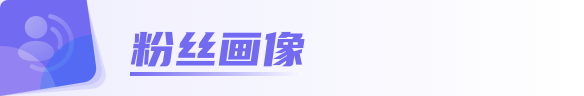
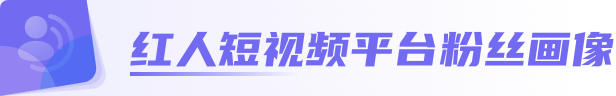
粉丝画像调整

diff --git a/src/views/star/FansData.vue b/src/views/star/FansData.vue
@@ -1,7 +1,7 @@
 <template>
   <div :class="c.dataBlock">
     <template v-if="hasOverview">
-      <h2 id="overview" data-anchor="数据概览" :class="[c.imgTitle, s.title1]">粉丝数据概览</h2>
+      <h2 id="overview" data-anchor="粉丝数据概览" :class="[c.imgTitle, s.title1]">红人短视频平台粉丝数据概览</h2>
       <div :class="c.rtTip">
         <a-tooltip placement="bottom">
           <template slot="title">您可以看到他的粉丝性别比例，年龄分层，活跃时间段以及粉丝占比最高的地区</template>
@@ -24,7 +24,7 @@
         </li>
       </ul>
     </template>
-    <h2 id="portrait" data-anchor="粉丝画像" :class="[c.imgTitle, s.title2]">粉丝画像</h2>
+    <h2 id="portrait" data-anchor="平台粉丝画像" :class="[c.imgTitle, s.title2]">红人短视频平台粉丝画像</h2>
     <div :class="s.block1">
       <div>
         <h3 :class="c.h3">
@@ -114,11 +114,46 @@
         </DataBlock>
       </div>
     </div>
-    <div v-if="portraits1.length" :class="s.t1">购买红人商品的粉丝画像（京东）</div>
+    <h2 v-if="portraits1.length" id="portrait1" data-anchor="购买粉丝画像" :class="[c.imgTitle, s.title3]">购买过红人所推荐商品的粉丝画像</h2>
     <DataBlock v-show="portraits1.length" :class="s.block1" :req="portraits1Req" :handler="portraits1Handler" :showEmpty="false" :showErr="false">
       <template v-slot="{ data }">
         <div v-for="{ name, chart } in data" :key="name">
-          <h3 :class="c.h3">{{ name }}</h3>
+          <h3 :class="c.h3">
+            {{ name }}
+            <a-tooltip v-if="name === '购买力'" placement="bottom">
+              <template slot="title">
+                <div>购买力客户特征：</div>
+                <ul>
+                  <li>1. 土豪：经常买奢侈品和高端商品</li>
+                  <li>2. 高级白领：生活品质较高，会偶尔买一些高端商品</li>
+                  <li>3. 小白领：生活品质还不错，但是闲钱不多，喜欢买一些中端商品</li>
+                  <li>4. 蓝领：生活品质一般，更倾向于购买中低端商品</li>
+                  <li>5. 收入很少：量入为出，喜欢买经济实惠的东西，从不买高端商品</li>
+                </ul>
+              </template>
+              <a-icon type="question-circle" :class="s.tipIcon" />
+            </a-tooltip>
+            <a-tooltip v-else-if="name === '促销敏感度类型'" placement="bottom">
+              <template slot="title">
+                <div>第一部分：</div>
+                <ul>
+                  <li>L1-近一年有复购用户</li>
+                  <li>L2-近一年无复购用户</li>
+                  <li>L3-一年前有复购用户</li>
+                  <li>L4-一年前无复购用户</li>
+                </ul>
+                <div style="margin-top:5px">第二部分：</div>
+                <ul>
+                  <li>1-对价格不敏感</li>
+                  <li>2-对价格轻度敏感</li>
+                  <li>3-对价格中度敏感</li>
+                  <li>4-对价格高度敏感</li>
+                  <li>5-对价格极度敏感</li>
+                </ul>
+              </template>
+              <a-icon type="question-circle" :class="s.tipIcon" />
+            </a-tooltip>
+          </h3>
           <LazyBlock :class="s.b1" :data="chart">
             <Chart :class="s.chart1" :chartData="chart"></Chart>
           </LazyBlock>
@@ -322,21 +357,29 @@ export default {
 
 <style lang="less" module="s">
 .title1 {
-  width: 292px;
+  width: 348px;
   height: 48px;
   background-image: url(~@/assets/fans-title1.png);
 }
 .title2 {
-  width: 292px;
+  width: 308px;
   height: 48px;
   background-image: url(~@/assets/fans-title2.png);
+}
+.title3 {
+  width: 397px;
+  height: 48px;
+  background-image: url(~@/assets/fans-title3.png);
 }
 @media only screen and (-webkit-min-device-pixel-ratio: 2), only screen and (min-device-pixel-ratio: 2) {
   .title1 {
     background-image: url(~@/assets/fans-title1@2x.png);
   }
   .title2 {
-    background-image: url(~@/assets/fans-title1@2x.png);
+    background-image: url(~@/assets/fans-title2@2x.png);
+  }
+  .title3 {
+    background-image: url(~@/assets/fans-title3@2x.png);
   }
 }
 .txtList {
@@ -384,12 +427,6 @@ div.block1 {
   ul {
     color: #666;
   }
-}
-.t1 {
-  color: #333;
-  font-size: 18px;
-  font-weight: 600;
-  margin: 20px 0 10px 30px;
 }
 .tipIcon {
   font-size: 14px;
